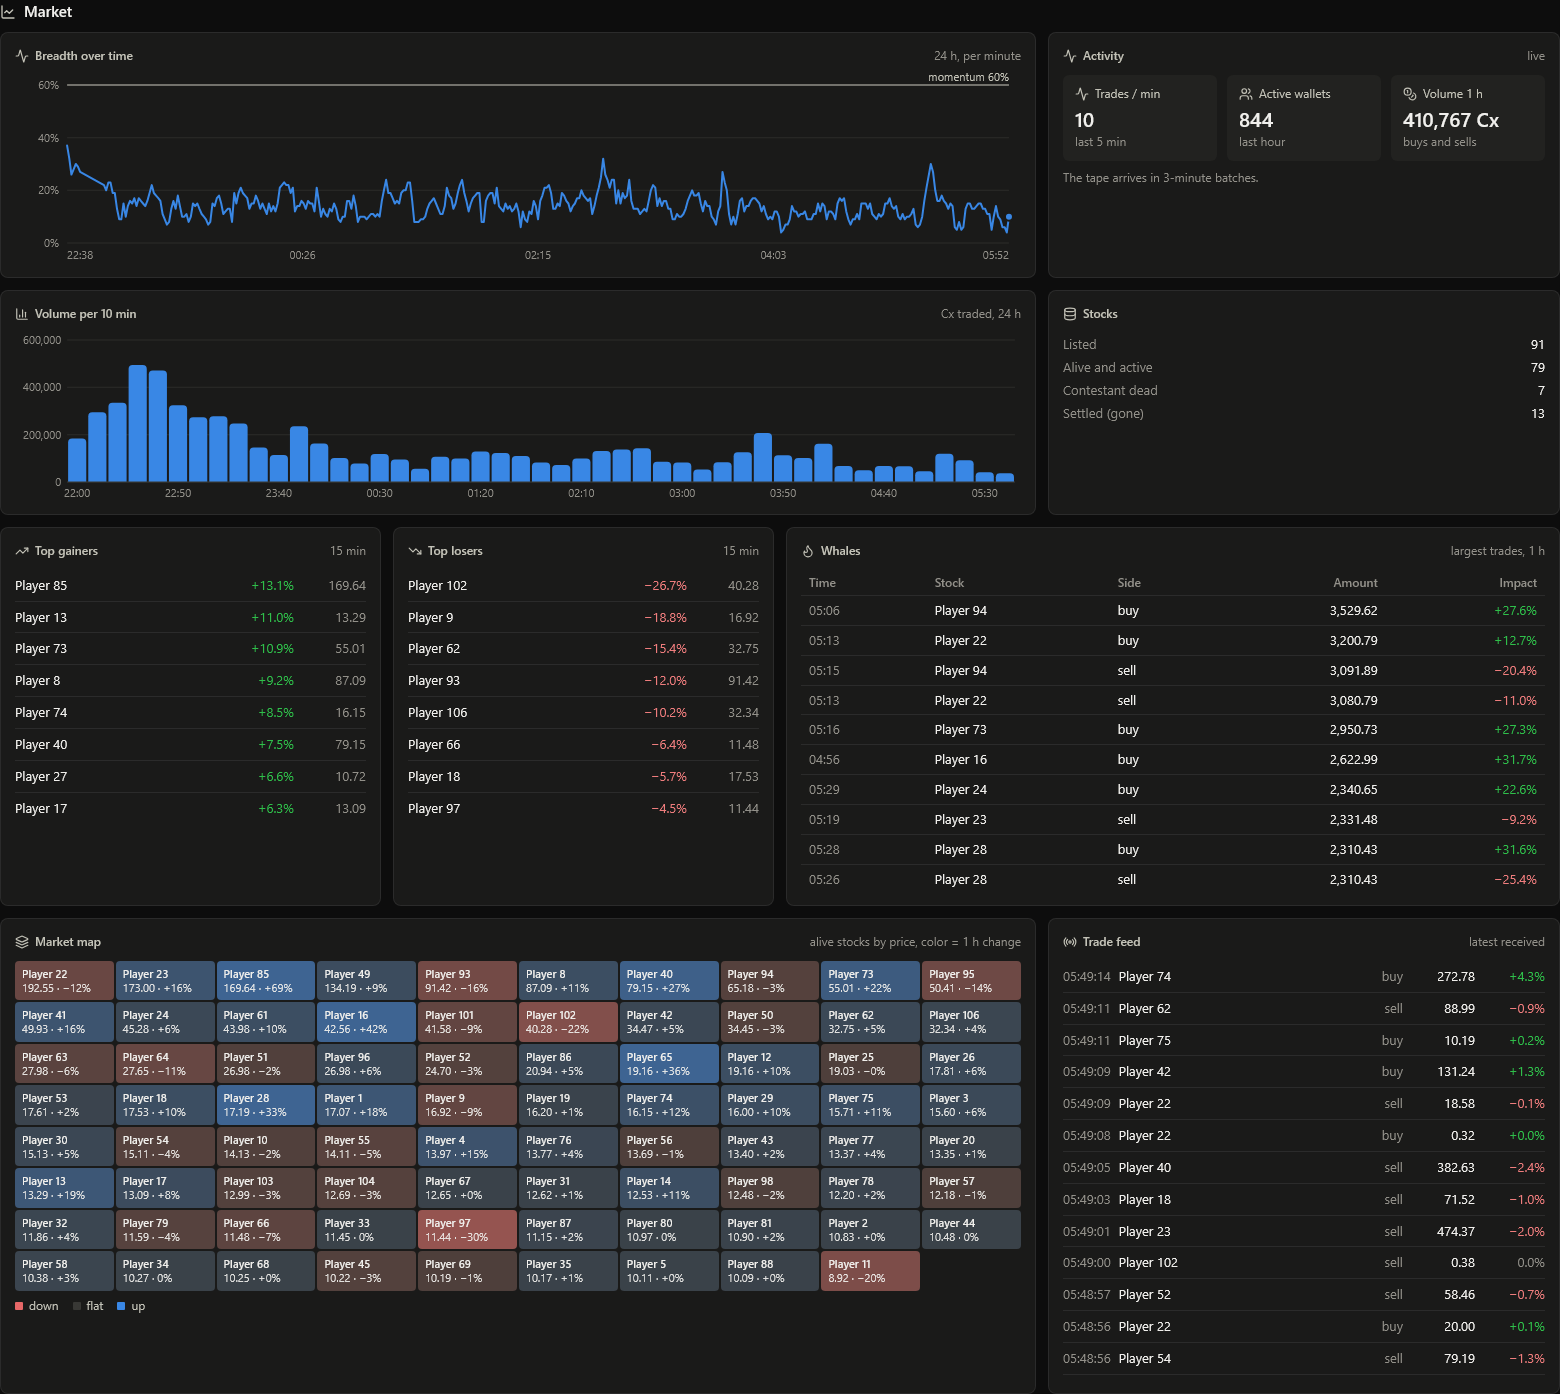
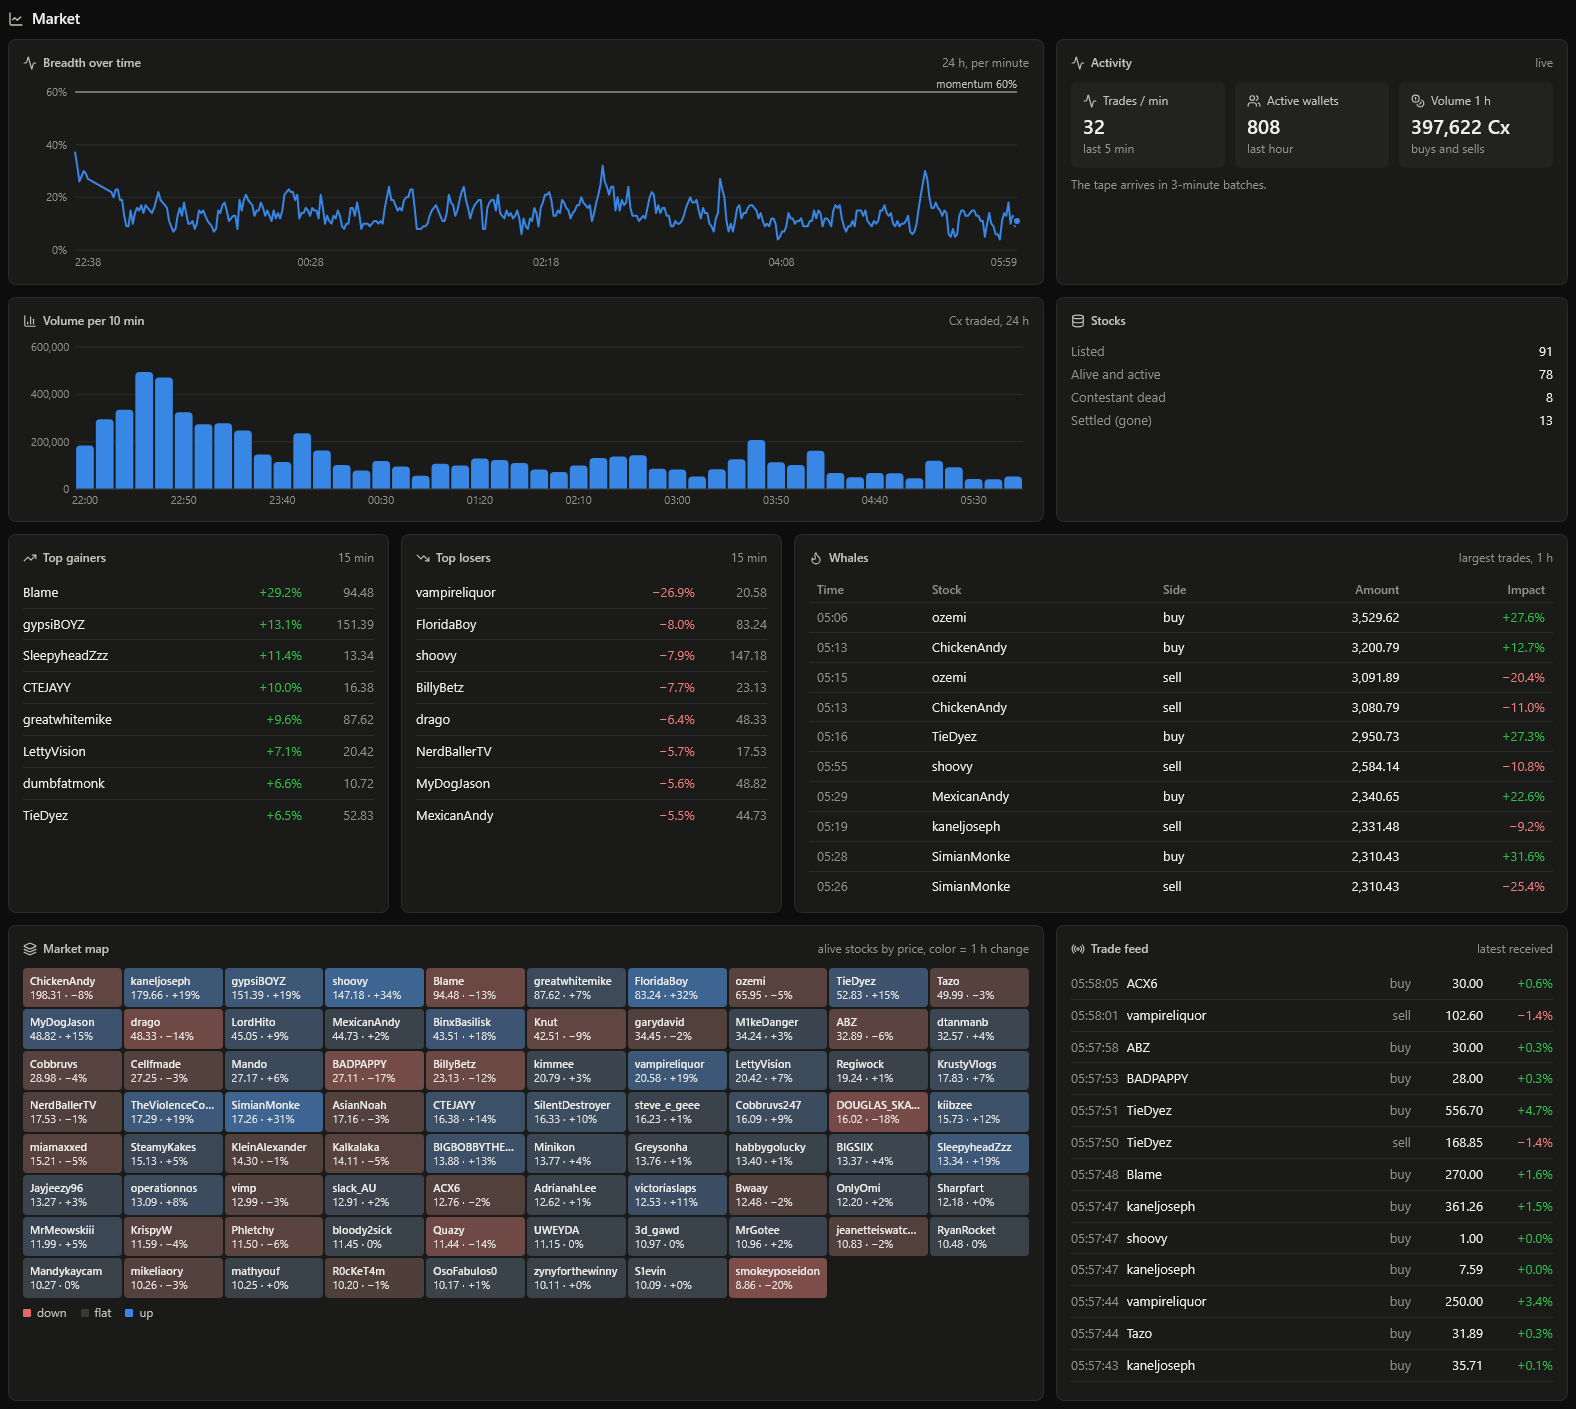
Retake the dashboard screenshots on live data, 32 of them
The README now shows every section plus close-ups (tooltips, filters, key
modules) and a phone row, taken from the running dashboard as it is: contestant
names are the event's public data. scripts/screenshots.mjs takes all 32 and keeps
--anon for anonymized ones. The live indicator in the header was an inline span
with no size: it is an inline-block now.

Claude-Session: https://claude.ai/code/session_01LYR14Cffr9eRHBPHK44ghC

diff --git a/dashboard.html b/dashboard.html
@@ -39,7 +39,7 @@ nav a:focus-visible, button:focus-visible { outline: 2px solid var(--accent); ou
 .bar-right { margin-left: auto; display: flex; align-items: center; gap: 14px; color: var(--ink-2); flex-wrap: wrap; }
 .pill { display: inline-flex; align-items: center; gap: 6px; padding: 3px 9px; border-radius: 999px; border: 1px solid var(--border-strong); background: var(--surface); font-weight: 500; color: var(--ink); white-space: nowrap; }
 .pill.good .ico { color: var(--good); } .pill.warning .ico { color: var(--warning); } .pill.critical .ico { color: var(--critical); } .pill.serious .ico { color: var(--serious); }
-.livedot { width: 8px; height: 8px; border-radius: 50%; background: var(--muted); }
+.livedot { display: inline-block; vertical-align: middle; width: 8px; height: 8px; border-radius: 50%; background: var(--muted); }
 .livedot.on { background: var(--accent); box-shadow: 0 0 0 3px var(--accent-soft); }
 .meta { font-variant-numeric: tabular-nums; white-space: nowrap; }
 

diff --git a/README.md b/README.md
@@ -216,43 +216,122 @@ reopened by a fresh process gets its cookie back). Stopping the task stops both.
 
 Open http://127.0.0.1:7788 while the engine runs (port `DASH_PORT` in `.env`). The supervisor serves it, so it stays
 up while the engine restarts and cannot stop trading if it fails. It is read-only and local (bound to 127.0.0.1),
-built from local files only, and pushes every change within 2 s (server-sent events). It works at phone width too
-([screenshot](docs/screenshots/mobile.png)).
+built from local files only, and pushes every change within 2 s (server-sent events). It works at phone width too.
 
-39 modules in five sections:
+The screenshots below are the live dashboard on 18/10 around 04:00 UTC, the first evening of the event. The whole
+page in one image: [overview.png](docs/screenshots/overview.png).
 
-- **Portfolio**: total value and gain since the start, cash, invested, unrealized and closed PnL, the total value
-  curve, allocation by strategy, and every position with cost, value, PnL, peak, top rank, holding time, the
-  contestant's HP and its exit condition.
+![Header: engine status, data age, time left in the event](docs/screenshots/header.png)
 
-  ![Portfolio](docs/screenshots/portfolio.png)
+39 modules in five sections.
 
-- **Strategies**: PnL by strategy, kill switches, market breadth against the momentum gate, the top basket ranking
-  with one-hour sparklines, the crash radar, the latest auto-tuning results, current parameters, the distribution of
-  round trips, the order log (filter: buys, sells, rejected) and the closed round trips.
+### Portfolio
 
-  ![Strategies](docs/screenshots/strategies.png)
+Total value and gain since the start, cash, invested, unrealized and closed PnL, the total value curve, allocation by
+strategy, and every position with cost, value, PnL, peak, top rank, holding time, the contestant's HP and its exit
+condition.
 
-- **Market**: breadth over 24 h, trades per minute, active wallets, volume per 10 minutes, top gainers and losers,
-  the largest trades of the hour, a heat map of every live stock and the trade feed.
+![Portfolio](docs/screenshots/portfolio.png)
 
-  ![Market](docs/screenshots/market.png)
+<details>
+<summary>Close-ups: key figures, value curve with its tooltip, positions</summary>
 
-- **Game**: contestants alive, deaths per hour and by cause, the latest deaths, the lowest HP, who is outside the
-  zone, and settled stocks.
+![Key figures](docs/screenshots/kpis.png)
+![Total value curve, hover tooltip](docs/screenshots/equity-tooltip.png)
+![Positions](docs/screenshots/positions.png)
 
-  ![Game](docs/screenshots/game.png)
+</details>
 
-- **Engine**: health (last `/me`, last scan, session), API state, health feed, time left in the event, starts and
-  watchdog exits, Kick announcements, data file sizes and the event log (filter: orders, tuning, health).
+### Strategies
 
-  ![Engine](docs/screenshots/engine.png)
+PnL by strategy, kill switches, market breadth against the momentum gate, the top basket ranking with one-hour
+sparklines, the crash radar, the latest auto-tuning results, current parameters, the distribution of round trips,
+the order log (filter: buys, sells, rejected) and the closed round trips.
+
+![Strategies](docs/screenshots/strategies.png)
+
+<details>
+<summary>Close-ups: strategy PnL and kill switches, top basket, crash radar, tuning, order log, round trips</summary>
+
+![PnL by strategy, kill switches, market breadth](docs/screenshots/strategy-pnl.png)
+![Top basket ranking](docs/screenshots/top-basket.png)
+![Crash radar](docs/screenshots/crash-radar.png)
+![Auto-tuning, parameters, round trip distribution](docs/screenshots/tuning-params.png)
+![Order log](docs/screenshots/orders.png)
+![Order log, rejected orders only](docs/screenshots/orders-rejected.png)
+![Round trips](docs/screenshots/round-trips.png)
+
+</details>
+
+### Market
+
+Breadth over 24 h, trades per minute, active wallets, volume per 10 minutes, top gainers and losers, the largest
+trades of the hour, a heat map of every live stock and the trade feed.
+
+![Market](docs/screenshots/market.png)
+
+<details>
+<summary>Close-ups: breadth, volume with its tooltip, movers and whales, heat map with its tooltip, trade feed</summary>
+
+![Breadth over time, live activity](docs/screenshots/breadth.png)
+![Volume per 10 minutes, hover tooltip](docs/screenshots/volume-tooltip.png)
+![Top gainers, top losers, whales](docs/screenshots/movers-whales.png)
+![Market heat map, hover tooltip](docs/screenshots/heat-map-tooltip.png)
+![Trade feed](docs/screenshots/trade-feed.png)
+
+</details>
+
+### Game
+
+Contestants alive, deaths per hour and by cause, the latest deaths, the lowest HP, who is outside the zone, and
+settled stocks.
+
+![Game](docs/screenshots/game.png)
+
+<details>
+<summary>Close-ups: deaths, health, settlements</summary>
+
+![Contestants, deaths per hour, causes](docs/screenshots/deaths.png)
+![Latest deaths, lowest HP, outside the zone](docs/screenshots/health.png)
+![Settlements](docs/screenshots/settlements.png)
+
+</details>
+
+### Engine
+
+Health (last `/me`, last scan, session), API state, health feed, time left in the event, starts and watchdog exits,
+Kick announcements, data file sizes and the event log (filter: orders, tuning, health).
+
+![Engine](docs/screenshots/engine.png)
+
+<details>
+<summary>Close-ups: engine health, event log filtered on health events</summary>
+
+![Engine health, API, health feed, event end](docs/screenshots/engine-health.png)
+![Event log, health events only](docs/screenshots/events-health.png)
+
+</details>
+
+### On a phone
+
+<table>
+<tr>
+<td><img src="docs/screenshots/mobile-home.png" width="190" alt="First screen"></td>
+<td><img src="docs/screenshots/mobile-positions.png" width="190" alt="Positions"></td>
+<td><img src="docs/screenshots/mobile-top-basket.png" width="190" alt="Top basket"></td>
+<td><img src="docs/screenshots/mobile-movers.png" width="190" alt="Top gainers and losers"></td>
+<td><img src="docs/screenshots/mobile-engine.png" width="190" alt="Engine health and API"></td>
+</tr>
+</table>
+
+### Notes
 
 Times show in the browser's time zone. The tape arrives in 3-minute batches, so the trade feed lags by up to 3 minutes;
 prices and positions refresh every 5 seconds.
 
 `node dashboard.mjs` runs it on its own, for working on the page; edits to `dashboard.html` reload open tabs by
-themselves. `node scripts/screenshots.mjs` refreshes the screenshots above: it replaces every contestant name with
+themselves. `node scripts/screenshots.mjs` retakes all the screenshots above from the running dashboard (32 images,
+desktop and phone, with the hover tooltips and filters shown). `--anon` replaces every contestant name with
 "Player N", hides stock ids and the site host, and stops if any of them is still on the page.
 
 ## Monitoring
@@ -303,7 +382,7 @@ themselves. `node scripts/screenshots.mjs` refreshes the screenshots above: it r
 - **The engine never stores or prints credentials.** The site session lives in the browser profile. The Kick bearer
   is read from `.env`.
 - **Recorded market data stays local**: it contains other players' ids. `data/` is git-ignored except the anonymized
-  fixture. The published screenshots carry no contestant name, stock id or site host.
+  fixture. The dashboard screenshots show live data as published by the event (contestant names, prices).
 
 ## Files
 
@@ -318,6 +397,6 @@ themselves. `node scripts/screenshots.mjs` refreshes the screenshots above: it r
 | `import-cookies.mjs` | EditThisCookie import |
 | `kick_say.py` | posts one chat line (Python, because Kick blocks Node's TLS fingerprint) |
 | `scripts/register-task.ps1` | Windows scheduled task |
-| `scripts/screenshots.mjs` | anonymized dashboard screenshots for this README |
+| `scripts/screenshots.mjs` | dashboard screenshots for this README (`--anon` for anonymized ones) |
 | `docs/screenshots/` | those screenshots |
 | `.env.example` | configuration template |
